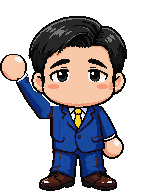
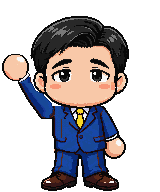
立ち位置ズレの根治: 全ポーズを160x192・体中心=キャンバス中央に統一
【原因】
手先の欠けを直した際に挙上ポーズだけ 112x192 -> 144x192 に広げたため、
「ポーズを切り替えるとキャンバス幅が変わる」構造になっていた。幅が変わると
位置がズレる箇所が2種類あり、場所ごとの対症療法では再発し続けていた:
  - 端基準の絶対配置(manzai-play) … 自分がズレる → --bxで補正していた
  - flex横並び(success-play #duo)  … 幅が広がると隣が押される → 未対応だった
    実測: 主人公の表情が挙上絵に変わると矢田が17pxワープしていた

【対策】全ポーズを同一キャンバスにし、体の中心を常にキャンバス中央へ
- tools/px_recanvas_160.ps1 を新規作成し6枚を160x192へ再キャンバス(絵は不変・平行移動のみ)
- 「体中心」= 脚・靴(最下端20行)の水平中心。腕は動くが脚は動かないため唯一の安定基準
- 実測で全6枚が体中心79.5・下端y=190に一致
- CSSのポーズ別補正(--bx / pose-*クラス)とJSのクラス切替を全て撤去

【検証(実測)】
- 漫才プレイ: 全ポーズ幅185px一致・ズレ0px・立ち位置116/259でマイク146-229を挟む
- 育成画面 : 主人公の表情を変えても 主人公108/矢田267 が不動(修正前は矢田が17px移動)

【仕様】SPRITE_SPEC.mdを160x192へ改訂し「ポーズごとにキャンバスを変えない」を
禁則として明文化(理由と2つの破綻パターンを併記)。PARAMS.md §9・ROADMAPにも反映

Changed region(s): [[0.1111, 0.0625, 0.8889, 1.0], [0.0, 0.2812, 0.0833, 0.4375]]

diff --git a/manzai-play.html b/manzai-play.html
@@ -102,34 +102,29 @@
   /* 立ち絵: センターマイクを挟んで二人が並ぶ(漫才の立ち位置)。
      画像は透過余白をトリム済み(images/bg/perf_*.png)なのでheight=実表示高。
      height 70%×口元(下から58%) ≒ マイク頭の中心(下から45%)に一致する設計 */
-  /* 立ち絵は「体の中心」を画面上の固定点に合わせる(2026-07-26ユーザー指示)。
-     base(112px幅・体中心x=56)と挙上(144px幅・体中心x=78/66)でキャンバス幅も体中心も
-     違うため、右端/左端で揃えるとポーズ切替のたびに体が横にズレる。
-     自己幅に対する比率(体中心x ÷ 画像幅)ぶん translateX して、left アンカー＝体の中心にする。
-     値の出典: docs/SPRITE_SPEC.md のポーズ別 body center x。二人が重なっても可(ユーザー了承)。 */
+  /* 立ち絵(2026-07-26): 全ポーズが 160x192・体中心=キャンバス中央 に統一済み
+     (docs/SPRITE_SPEC.md / tools/px_recanvas_160.ps1)。
+     どのポーズでも画像サイズが同じなので、単純に中央揃えするだけで体の中心が固定される。
+     ポーズ別のCSS補正は不要になった(以前は幅違いを --bx で吸収していた)。 */
   .performer{position:absolute;bottom:4%;height:70%;width:auto;object-fit:contain;
-    --bx:-50%;transform:translateX(var(--bx));
-    /* transitionは付けない: ポーズ切替で--bxが変わると横滑りして見えるため(2026-07-26) */
+    transform:translateX(-50%);
+    /* transitionは付けない: ポーズ切替で横滑りして見えるため(2026-07-26) */
     filter:drop-shadow(0 5px 6px rgba(40,10,10,.5));z-index:3;}
   .px-sprite{image-rendering:pixelated;} /* ドット絵はニアレスト拡大(2026-07-20) */
-  /* left = 体の中心を置く位置。センターマイク(中央)を挟んで左右に立つ配置を維持する。
-     値は旧仕様(right:52% / left:52%)の体中心位置を実測して合わせたもの(2026-07-26) */
+  /* left = 体の中心を置く位置。センターマイク(中央)を挟んで左右に立つ */
   .p-hero{left:31%;transform-origin:bottom center;}
   .p-partner{left:69%;transform-origin:bottom center;}
-  .pose-base{--bx:-50%;}      /* 112px幅・体中心56 → 56/112 = 50.00% */
-  .pose-upL{--bx:-54.17%;}    /* 144px幅・体中心78 → 78/144 = 54.17% */
-  .pose-upR{--bx:-45.83%;}    /* 144px幅・体中心66 → 66/144 = 45.83% */
   /* センターマイク(fal.ai生成・二人の前) */
   .center-mic{position:absolute;left:50%;bottom:2%;transform:translateX(-50%);height:52%;width:auto;z-index:4;
     filter:drop-shadow(0 4px 4px rgba(40,10,10,.45));pointer-events:none;}
-  /* リアクション中も体中心オフセット(--bx)を維持する(transformは上書きされるため毎キーに含める) */
+  /* リアクション中も中央揃え(-50%)を維持する(transformは上書きされるため毎キーに含める) */
   @keyframes perfJump{
-    0%,100%{transform:translateX(var(--bx));}
-    30%{transform:translateX(var(--bx)) translateY(-16px) rotate(-3deg);}
-    60%{transform:translateX(var(--bx)) translateY(-3px);}}
+    0%,100%{transform:translateX(-50%);}
+    30%{transform:translateX(-50%) translateY(-16px) rotate(-3deg);}
+    60%{transform:translateX(-50%) translateY(-3px);}}
   @keyframes perfLunge{
-    0%,100%{transform:translateX(var(--bx));}
-    25%,55%{transform:translateX(var(--bx)) translateX(-14px) rotate(-6deg);}}
+    0%,100%{transform:translateX(-50%);}
+    25%,55%{transform:translateX(-50%) translateX(-14px) rotate(-6deg);}}
   .performer.react-jump{animation:perfJump .42s ease;}
   .performer.react-lunge{animation:perfLunge .42s ease;}
 
@@ -400,8 +395,8 @@
     <img class="bgimg" src="images/bg/stage_yose.png" alt="">
     <div class="pulse" id="stagePulse"></div>
     <!-- ウケ量カウンタは廃止(2026-07-25 数値マスキング規約・02 §4.7)。手応えは温度メーターが表す -->
-    <img class="performer p-hero px-sprite pose-base" id="perfBoke" src="images/px/hero_base.png" alt="主人公">
-    <img class="performer p-partner px-sprite pose-base" id="perfTsu" src="images/px/yada_base.png" alt="矢田">
+    <img class="performer p-hero px-sprite" id="perfBoke" src="images/px/hero_base.png" alt="主人公">
+    <img class="performer p-partner px-sprite" id="perfTsu" src="images/px/yada_base.png" alt="矢田">
     <img class="center-mic" src="images/bg/mic_center.png" alt="">
     <div id="burst"></div>
     <div id="judge"></div>
@@ -1380,11 +1375,8 @@ const _poseTimer={hero:null, yada:null};
 function setPose(who, pose){
   const el=document.getElementById(who==="hero"?"perfBoke":"perfTsu");
   if(!el) return;
-  const set=(p)=>{
-    el.src=PX_POSE[who][p]||PX_POSE[who].base;
-    el.classList.remove("pose-base","pose-upL","pose-upR");
-    el.classList.add("pose-"+p);
-  };
+  // 全ポーズが同一キャンバス(160x192・体中心=中央)なので src を差し替えるだけでズレない
+  const set=(p)=>{ el.src=PX_POSE[who][p]||PX_POSE[who].base; };
   set(pose);
   if(_poseTimer[who]){ clearTimeout(_poseTimer[who]); _poseTimer[who]=null; }
   if(pose!=="base"){ _poseTimer[who]=setTimeout(()=>{ set("base"); _poseTimer[who]=null; },420); }

diff --git a/docs/SPRITE_SPEC.md b/docs/SPRITE_SPEC.md
@@ -7,11 +7,16 @@ This is the authoritative reference for sprite dimensions across all characters.
 
 | Property | Value |
 |----------|-------|
-| Width    | 112 px |
+| Width    | **160 px** |
 | Height   | 192 px |
 | Format   | PNG (32-bit RGBA) |
 
-Reference sprite: `images/px/hero_base.png` (112x192)
+Reference sprite: `images/px/hero_base.png` (160x192)
+
+> **Changed 2026-07-26: 112x192 -> 160x192.** The width was raised so that *every pose*
+> (including hand-up poses, whose arms extend outward) fits in the **same** canvas with the
+> body centred. See "Pose Variants" below for why this matters. 192px height and the
+> `y=190` ground line are unchanged.
 
 ## Conversion Pipeline (smooth illustration -> pixel art)
 
@@ -33,18 +38,41 @@ stored in `images/parts/<char>_master.png`.
 - Palettes defined in `tools/pxpalettes.ps1`
 
 ### Output
-- `images/px/<char>_base.png` (112x192, final sprite)
+- `images/px/<char>_base.png` (160x192, final sprite)
 
-## Pose Variants
+## Pose Variants — all poses share ONE canvas (2026-07-26)
 
-| Pose    | Canvas   | Body Center X | Notes                    |
-|---------|----------|---------------|--------------------------|
-| base    | 112x192  | 56            | Standing pose            |
-| upL     | 144x192  | 78            | Left hand raised         |
-| upR     | 144x192  | 66            | Right hand raised        |
+| Pose  | Canvas      | Body Center X | Notes            |
+|-------|-------------|---------------|------------------|
+| base  | **160x192** | **80 (center)** | Standing pose    |
+| upL   | **160x192** | **80 (center)** | Left hand raised |
+| upR   | **160x192** | **80 (center)** | Right hand raised|
 
-Hand-up poses use a wider 144px canvas to accommodate the extended arm.
-The game engine aligns sprites by `body_center_x` so poses swap seamlessly.
+**Rule: every pose of every character uses the same canvas, with the body center at the
+exact canvas center.** Swapping poses therefore never changes the element's size or the
+body's position — no CSS compensation is needed anywhere.
+
+### Why this rule exists (do not break it)
+
+Hand-up poses were originally cropped to 144x192 (wider than base's 112x192) so the hand
+tips would not be cut off. That made canvas width vary per pose, which caused position
+drift in **two different ways**:
+
+| Layout | Mechanism | Symptom |
+|--------|-----------|---------|
+| Absolute positioning anchored on an edge (`manzai-play`) | the element's own edge moves when width changes | the character jumps sideways when raising a hand |
+| Flex row (`success-play` `#duo`) | a wider element pushes its neighbours | **the *other* character jumps** when this one changes expression |
+
+Patching each site separately (e.g. a body-center `translateX`) fixes only the first case
+and has to be redone every time the sprites are used somewhere new. Unifying the canvas
+removes the hazard at the source.
+
+- "Body center" = horizontal centre of the **legs/shoes** (bottom 20 rows). Arms move
+  between poses; legs do not, so this is the only stable reference.
+- Feet are aligned at `y=190` across all characters, so characters of different heights
+  stand on the same ground line.
+- Regenerate/verify with `tools/px_recanvas_160.ps1` (idempotent: re-running a
+  already-correct file is a no-op).
 
 Files: `images/px/<char>_base.png`, `<char>_upL.png`, `<char>_upR.png`
 

diff --git a/ROADMAP.md b/ROADMAP.md
@@ -26,8 +26,8 @@
 | 3画面統合 | localStorage(`pm_*`)による状態共有・往復 | 全画面 |
 | セーブ/ロード | `pm_save`(単一スロット) | `success-play.html` |
 | 設計ドキュメント | 00〜05, SCORING(審査員含む設計完了), EVENTS(台本30種+), SCRIPTS(脚本11本), DESIGN(UIシステム), ART_RULES | `*.md` |
-| ドット絵パイプライン | 決定論・生成AI不要の64×96テキストマップ方式(確定・標準)。**112×192統一キャンバス+滑らか原画→ドット変換パイプラインを追加**(2026-07) | `tools/PXART_PROCESS.md` / `docs/SPRITE_SPEC.md` |
-| ドット絵アセット | 主人公: base+挙上L/R(112×192・手先込み144×192)確定。**矢田: base+挙上L/R確定**(主人公胴体の青リカラー+輪郭トレース顔合成・靴位置y=190揃え)(2026-07-22〜25) | `images/px/*.png` / `docs/SPRITE_SPEC.md` |
+| ドット絵パイプライン | 決定論・生成AI不要の64×96テキストマップ方式(確定・標準)。**160×192統一キャンバス+滑らか原画→ドット変換パイプラインを追加**(2026-07) | `tools/PXART_PROCESS.md` / `docs/SPRITE_SPEC.md` |
+| ドット絵アセット | 主人公・矢田とも base+挙上L/R を確定。**全ポーズ160×192・体中心=キャンバス中央に統一**(2026-07-26。ポーズ間で幅が変わると隣接要素まで動くため)。靴位置y=190で全キャラ揃え | `images/px/*.png` / `docs/SPRITE_SPEC.md` |
 | ドット絵ゲーム組込み | success-play/manzai-playの主人公・矢田立ち絵をpx版に差替済み(`image-rendering:pixelated`) | 両HTML |
 
 ### 1.2 🔧 仕掛かり(部分実装)

diff --git a/PARAMS.md b/PARAMS.md
@@ -109,7 +109,17 @@
 | 基礎能力底上げ系 | **パワプロ方式**: 取得しても育成画面の表示値は上がらない(マスク)。得点計算時のみ実効値=表示値+加算で計算。**100超を許容**(例: 95+10→105で計算) | 確定 | 2026-07-24 | `03 §2.3`(反映待ち) |
 | 種数の規模 | 青+赤で20〜40種(金特は別途) | 確定 | 2026-07-24 | `03 §2.3`(反映待ち) |
 
-## 9. 楽曲・譜面
+## 9. スプライト(立ち絵)
+
+| パラメータ | 値 | 状態 | 決定日 | 正本 |
+|-----------|----|------|--------|------|
+| キャンバス | **160×192**(全キャラ・全ポーズ共通) | **確定** | **2026-07-26**(112×192から拡張) | `docs/SPRITE_SPEC.md` |
+| **体中心の位置** | **キャンバス中央(x=80)に固定**。「体中心」=脚・靴(最下端20行)の水平中心 | **確定** | **2026-07-26** | `docs/SPRITE_SPEC.md` |
+| 接地ライン | y=190(全キャラ共通・身長差はここから上に出す) | 確定 | 2026-07-22 | `docs/SPRITE_SPEC.md` |
+| **禁則** | **ポーズごとにキャンバスサイズを変えてはならない。** 幅が変わると①端基準の絶対配置では自分が②flex横並びでは隣が動く。個別のCSS補正では使う場所が増えるたびに再発する | **確定** | **2026-07-26** | `docs/SPRITE_SPEC.md` |
+| 再生成 | `tools/px_recanvas_160.ps1`(冪等・正しいファイルは無変換) | 確定 | 2026-07-26 | ─ |
+
+## 10. 楽曲・譜面
 
 | パラメータ | 値 | 状態 | 決定日 | 正本 |
 |-----------|----|------|--------|------|
